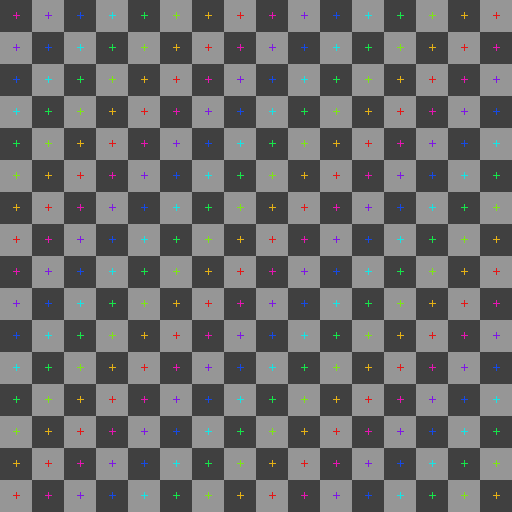
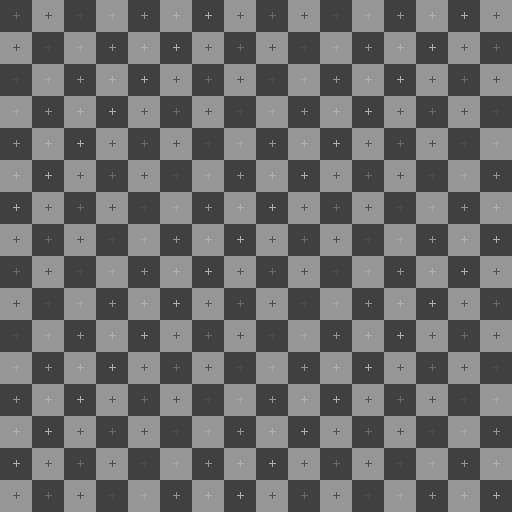
fix: use grayscale analysis grid and stronger HDRP lights

diff --git a/Command/command_capture_environment.cs b/Command/command_capture_environment.cs
@@ -707,9 +707,9 @@ namespace KimodoUnityBridge.Command
             bool hdrp = GetCapturePipeline() == CapturePipeline.Hdrp;
             var setups = new[]
             {
-                (name: "Key", position: new Vector3(-4f, 6f, -4f), intensity: hdrp ? 8f : 1.05f),
-                (name: "Fill", position: new Vector3(4f, 3f, -2f), intensity: hdrp ? 2f : .45f),
-                (name: "Rim", position: new Vector3(0f, 5f, 5f), intensity: hdrp ? .75f : .20f)
+                (name: "Key", position: new Vector3(-4f, 6f, -4f), intensity: hdrp ? 16f : 1.05f),
+                (name: "Fill", position: new Vector3(4f, 3f, -2f), intensity: hdrp ? 4f : .45f),
+                (name: "Rim", position: new Vector3(0f, 5f, 5f), intensity: hdrp ? 1.5f : .20f)
             };
             var directions = new Vector4[setups.Length];
             for (int index = 0; index < setups.Length; index++)
